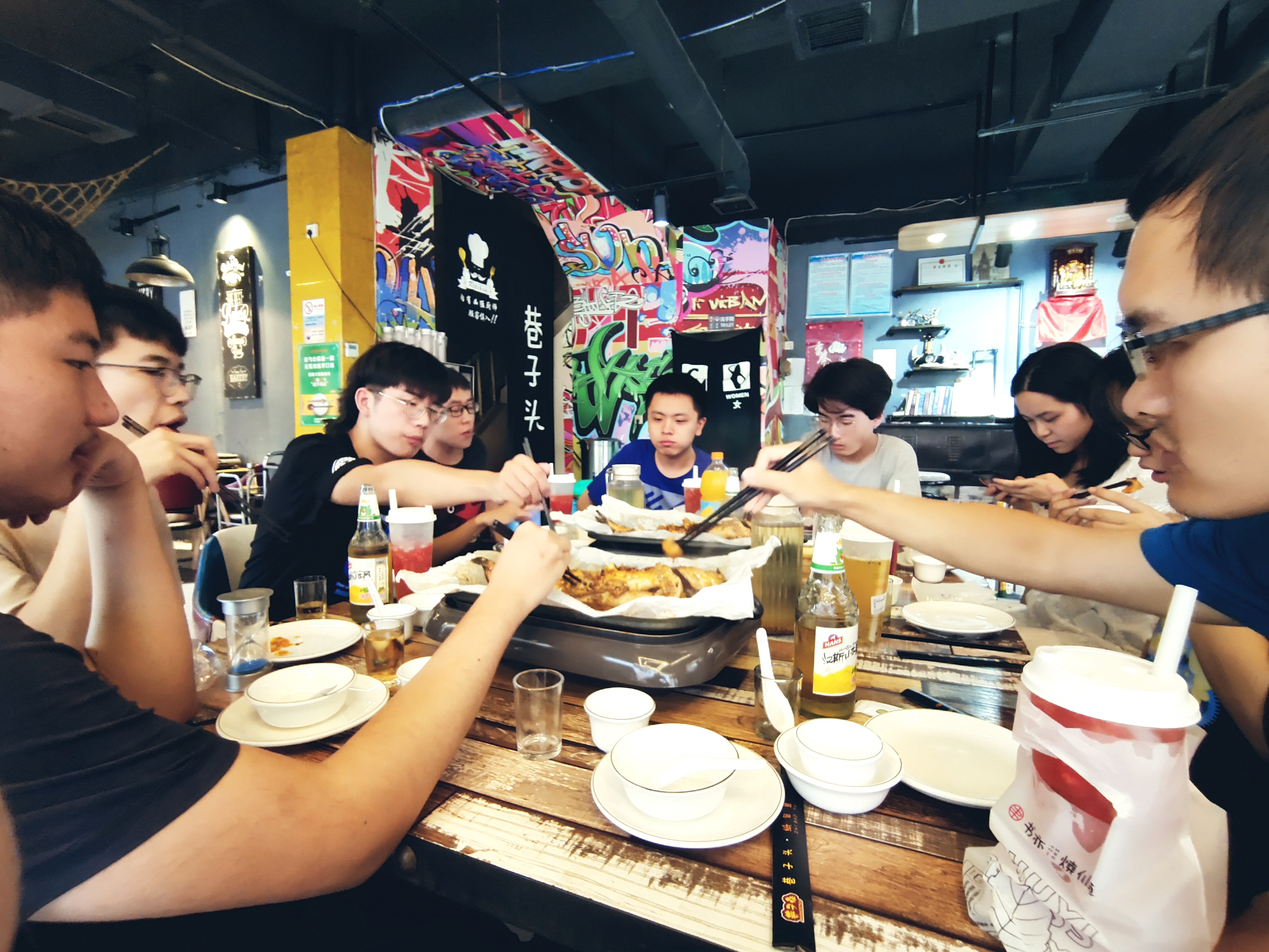
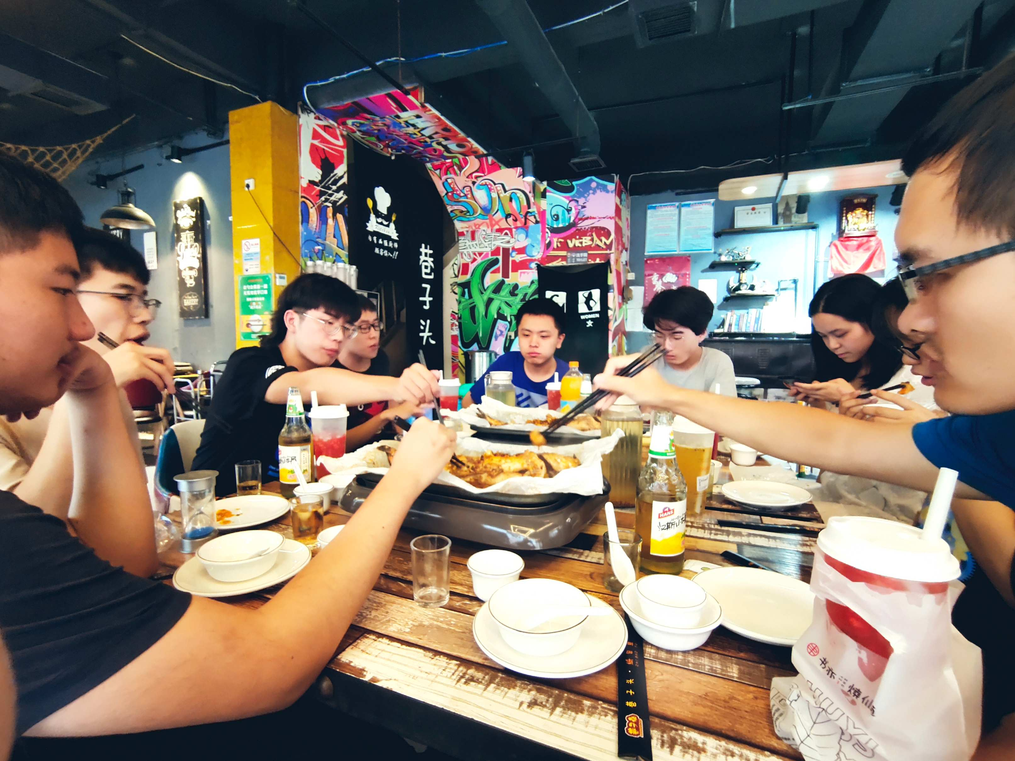
bugFix: compressed jpg,add rmua

diff --git a/aboutus/RMUA.md b/aboutus/RMUA.md
@@ -2,11 +2,19 @@
 
 ## 比赛概述
 
+	RoboMaster 机甲大师高校人工智能挑战赛（RMUA, RoboMaster University AI Challenge）自2017年起已连续四年由DJI RoboMaster组委会与全球机器人和自动化大会联合主办，并先后在新加坡、澳大利亚、加拿大落地执行。该赛事吸引了全球大量顶尖学府、科研机构参与竞赛和学术研讨，进一步扩大了RoboMaster在国际机器人学术领域的影响力。比赛需要参赛队综合运用机械、电控和算法等技术知识，自主研发全自动射击机器人参赛，对综合技术能力要求极高。
+
+![RMUA_2](../resource/aboutus/RMUA_2.jpeg)
+
+	![RMUA_1](../resource/aboutus/RMUA_1.jpeg)
+
 
 
 ## 技术需求
 
 高速定位
 
-精准识别
+高帧识别
+
+精准打击
 
